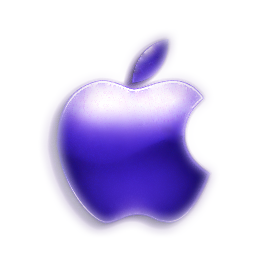
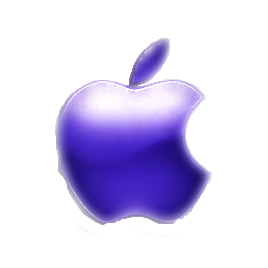
image change

diff --git a/AUC/Notice.css b/AUC/Notice.css
@@ -417,7 +417,7 @@ url(http://www.pptback.com/uploads/borders-frames-blue-gold-frame-backgrounds-po
 */
 background-image:url(https://www.apple.com/v/imac-pro/e/images/overview/screen_endframe_large.jpg);
 border:solid 0.1rem #001;
-filter: saturate(150%) hue-rotate(40deg);
+filter: saturate(150%) hue-rotate(38deg);
 /*background:rgba(100, 0, 255, 0.1), 
 url(http://www.pptback.com/uploads/borders-frames-blue-gold-frame-backgrounds-powerpoint.jpg);
 */background-size:95% 95%;
@@ -425,7 +425,7 @@ color:white;
 text-shadow:1px 1px black;}
 #Myuna a:before{
 background-image:url(img/PurpleMetalApple.png);
-background-size:150%;
+background-size:140%;
 filter:saturate(1) hue-rotate(-50deg);
 }
 #Myuna span {color:white;}
